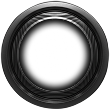
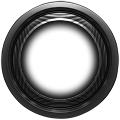
feat: update node types

diff --git a/src/components/settings-panel/node-settings.tsx b/src/components/settings-panel/node-settings.tsx
@@ -17,8 +17,9 @@ import { Textarea } from '@/components/ui/textarea';
 import { VirtualizedCombobox } from '@/components/ui/virtualized-combobox';
 import {
   NODE_ICON_SIZE_PERCENT,
+  NODE_RADIUS_EXTRALARGE,
   NODE_RADIUS_LARGE,
-  NODE_RADIUS_MASTER,
+  NODE_RADIUS_MEDIUM,
   NODE_RADIUS_SMALL,
   SKILL_TREE_LABEL,
 } from '@/constants';
@@ -95,11 +96,14 @@ export const NodeSettings = ({ nodeId, node }: NodeSettingsProps) => {
       case NodeType.SmallNode: {
         return NODE_RADIUS_SMALL * 2 * NODE_ICON_SIZE_PERCENT;
       }
+      case NodeType.MediumNode: {
+        return NODE_RADIUS_MEDIUM * 2 * NODE_ICON_SIZE_PERCENT;
+      }
       case NodeType.LargeNode: {
         return NODE_RADIUS_LARGE * 2 * NODE_ICON_SIZE_PERCENT;
       }
-      case NodeType.MasterNode: {
-        return NODE_RADIUS_MASTER * 2 * NODE_ICON_SIZE_PERCENT;
+      case NodeType.ExtraLargeNode: {
+        return NODE_RADIUS_EXTRALARGE * 2 * NODE_ICON_SIZE_PERCENT;
       }
       default: {
         return NODE_RADIUS_SMALL * 2 * NODE_ICON_SIZE_PERCENT;
@@ -214,8 +218,9 @@ export const NodeSettings = ({ nodeId, node }: NodeSettingsProps) => {
               </SelectTrigger>
               <SelectContent>
                 <SelectItem value={NodeType.SmallNode.toString()}>Малая нода</SelectItem>
+                <SelectItem value={NodeType.MediumNode.toString()}>Средняя нода</SelectItem>
                 <SelectItem value={NodeType.LargeNode.toString()}>Большая нода</SelectItem>
-                <SelectItem value={NodeType.MasterNode.toString()}>Мастер нода</SelectItem>
+                <SelectItem value={NodeType.ExtraLargeNode.toString()}>Огромная нода</SelectItem>
               </SelectContent>
             </Select>
           </div>

diff --git a/src/components/viewport/node-element.tsx b/src/components/viewport/node-element.tsx
@@ -3,8 +3,9 @@ import { useEffect, useState } from 'react';
 import { Circle, Group, Image } from 'react-konva';
 import useImage from 'use-image';
 
+import extraLargeNodeBorder from '@/assets/extralarge-node-border.png';
 import largeNodeBorder from '@/assets/large-node-border.png';
-import masterNodeBorder from '@/assets/master-node-border.png';
+import mediumNodeBorder from '@/assets/medium-node-border.png';
 import smallNodeBorder from '@/assets/small-node-border.png';
 import { NODE_ICON_SIZE_PERCENT, SELECTION_COLOR, VIEWPORT_BACKGROUND_COLOR } from '@/constants';
 import { useStore } from '@/store';
@@ -15,8 +16,9 @@ import { findClosestOrbitSnapPoint } from '@/utils/orbit-helpers';
 
 const nodeBorderImages: Record<NodeType, string> = {
   [NodeType.SmallNode]: smallNodeBorder,
+  [NodeType.MediumNode]: mediumNodeBorder,
   [NodeType.LargeNode]: largeNodeBorder,
-  [NodeType.MasterNode]: masterNodeBorder,
+  [NodeType.ExtraLargeNode]: extraLargeNodeBorder,
 };
 
 type NodeElementProps = {

diff --git a/src/components/settings-panel/export-dialog.tsx b/src/components/settings-panel/export-dialog.tsx
@@ -1,8 +1,9 @@
 import JSZip from 'jszip';
 import { useState } from 'react';
 
+import extraLargeNodeBorder from '@/assets/extralarge-node-border.png';
 import largeNodeBorder from '@/assets/large-node-border.png';
-import masterNodeBorder from '@/assets/master-node-border.png';
+import mediumNodeBorder from '@/assets/medium-node-border.png';
 import smallNodeBorder from '@/assets/small-node-border.png';
 import { Button } from '@/components/ui/button';
 import {
@@ -22,8 +23,9 @@ import { AtlasNode, loadImage, packTextureAtlas } from '@/utils/texture-atlas';
 
 const nodeBorderImages: Record<NodeType, string> = {
   [NodeType.SmallNode]: smallNodeBorder,
+  [NodeType.MediumNode]: mediumNodeBorder,
   [NodeType.LargeNode]: largeNodeBorder,
-  [NodeType.MasterNode]: masterNodeBorder,
+  [NodeType.ExtraLargeNode]: extraLargeNodeBorder,
 };
 
 type ExportDialogProps = {

diff --git a/src/utils/node-helpers.ts b/src/utils/node-helpers.ts
@@ -1,14 +1,22 @@
-import { NODE_RADIUS_LARGE, NODE_RADIUS_MASTER, NODE_RADIUS_SMALL } from '@/constants';
+import {
+  NODE_RADIUS_EXTRALARGE,
+  NODE_RADIUS_LARGE,
+  NODE_RADIUS_MEDIUM,
+  NODE_RADIUS_SMALL,
+} from '@/constants';
 
 import { EditorConnections, NodeType } from '../types';
 
 export function getNodeRadius(type: NodeType): number {
   switch (type) {
+    case NodeType.MediumNode: {
+      return NODE_RADIUS_MEDIUM;
+    }
     case NodeType.LargeNode: {
       return NODE_RADIUS_LARGE;
     }
-    case NodeType.MasterNode: {
-      return NODE_RADIUS_MASTER;
+    case NodeType.ExtraLargeNode: {
+      return NODE_RADIUS_EXTRALARGE;
     }
     default: {
       return NODE_RADIUS_SMALL;

diff --git a/src/constants.ts b/src/constants.ts
@@ -1,8 +1,9 @@
 export const MOUSE_WHEEL_BTN_INDEX = 4 as const;
 
 export const NODE_RADIUS_SMALL = 24 as const;
-export const NODE_RADIUS_LARGE = 36 as const;
-export const NODE_RADIUS_MASTER = 48 as const;
+export const NODE_RADIUS_MEDIUM = 36 as const;
+export const NODE_RADIUS_LARGE = 48 as const;
+export const NODE_RADIUS_EXTRALARGE = 60 as const;
 export const NODE_STROKE_WIDTH = 8 as const;
 export const NODE_ICON_SIZE_PERCENT = 0.75 as const;
 

diff --git a/src/types.ts b/src/types.ts
@@ -32,8 +32,9 @@ export const enum SkillTree {
 
 export const enum NodeType {
   SmallNode = 0,
-  LargeNode = 1,
-  MasterNode = 2,
+  MediumNode = 1,
+  LargeNode = 2,
+  ExtraLargeNode = 3,
 }
 
 export type EditorNode = {
